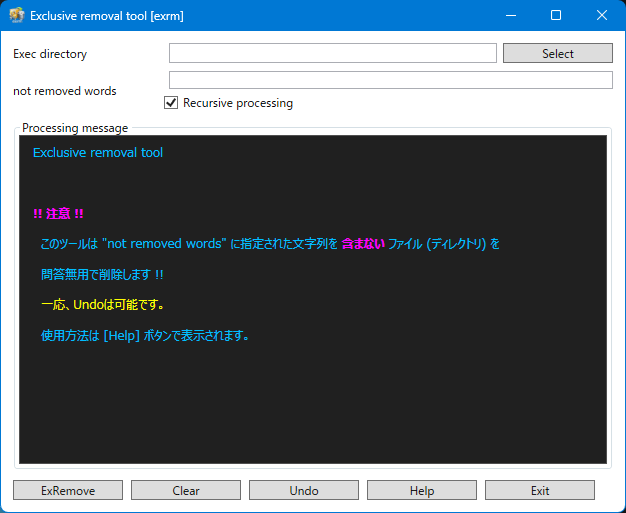
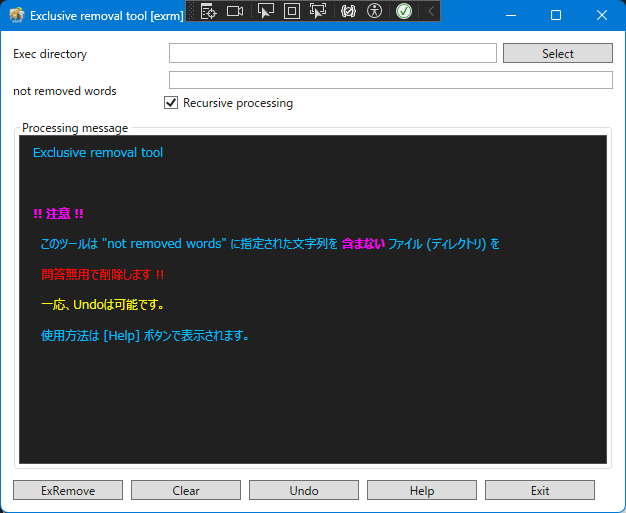
Change image

diff --git a/exrm_wpf/MainWindow.xaml.cs b/exrm_wpf/MainWindow.xaml.cs
@@ -52,7 +52,7 @@ namespace ExrmWpf
             );
         
             AppendMixedLine(
-                ("  問答無用で削除します !!", MediaBrushes.DeepSkyBlue, FontWeights.Normal, FontStyles.Normal)
+                ("  問答無用で削除します !!", MediaBrushes.Red, FontWeights.Normal, FontStyles.Normal)
             );
         
             AppendMixedLine(
